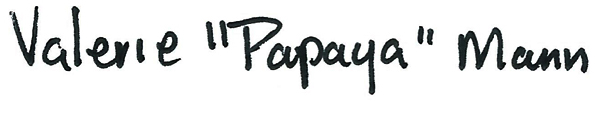
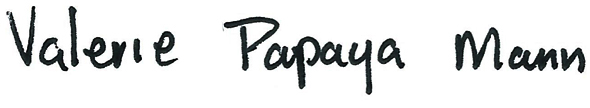
papaya!

Changed region(s): [[0.3356, 0.1389, 0.7322, 0.8889], [0.0, 0.0556, 0.3051, 0.6667], [0.7627, 0.2222, 1.0, 0.6667]]

diff --git a/credits/index.html b/credits/index.html
@@ -42,7 +42,7 @@
 		</br></br>
 		Featuring excerpts from conversations with;
 		</br></br>
-		<a href="http://www.bates.edu/rhetoric/faculty/nero-charles-i/" target="_blank">Charles Nero</a> interviewed in Lewiston, Maine, <a href="http://barbarasmithaintgonna.com/" target="_blank">Barbara Smith</a> in Albany, NY via phone, <a href="http://www.bisexualorganizingproject.org/home/category/abilly-s-joneshennin" target="_blank">ABilly S. Jones-Hennin</a> in Washington, D.C., <a href="http://papayamann.com/" target="_blank">Valerie &ldquo;Papaya&rdquo; Mann</a> in Washington, D.C., <a href="http://www.uhupil.org/#!chw---aimm/cmfw" target="_blank">Ron Simmons</a> in Washington, DC via phone, <a href="http://waysonjones.com/home.html" target="_blank">Wayson Jones</a> in Prince George's County, MD, <a href="https://en.wikipedia.org/wiki/Michelle_Parkerson" target="_blank">Michelle Parkerson</a> in Washington, D.C., <a href="http://prospect.org/article/how-campus-radical-became-first-woman-run-white-house-photography-operation" target="_blank">Sharon Farmer</a> in Washington, D.C., <a href="http://joycewellman.com/" target="_blank">Joyce Wellman</a> in Washington, D.C., <a href="http://www.gracecavalieri.com/" target="_blank">Grace Cavalieri</a> in Annapolis, MD, E. <a href="http://www.eethelbertmiller.com/" target="_blank">Ethelbert Miller</a> in Washington, D.C., <a href="https://books.google.com/books?id=_rvcAwAAQBAJ&pg=PA210&lpg=PA210&dq=Christopher+Prince+essex+hemphill&source=bl&ots=bSrtJQpBgO&sig=v1Caa6v5W_B5braNrNMBDmx6l44&hl=en&sa=X&ved=0ahUKEwjJ8ZSvh63JAhWMdz4KHRbpChAQ6AEIKzAD#v=onepage&q=Christopher%20Prince%20essex%20hemphill&f=false" target="_blank">Christopher Prince</a> in Washington, D.C, <a href="http://notherapedocumentary.org/aishah-shahidah-simmons-bio" target="_blank">Aishah Shahidah Simmons</a> in Philadelphia, PA, <a href="https://imfromdriftwood.com/black-community-spotlight-tyrone-smith/" target="_blank">Tyrone Smith</a> in Philadelphia, PA, <a href="https://en.wikipedia.org/wiki/Joseph_F._Beam" target="_blank">Dorothy Beam</a> (recorded at Essex Hemphill Dec. 95&apos; Memorial Service in Philadelphia, PA, audio recording courtesy Aishah Shahidah Simmons), <a href="http://soniasanchez.net/" target="_blank">Sonia Sanchez</a> (recorded at Essex Hemphill Dec. 95&apos; Memorial Service in Philadelphia, PA audio recording courtesy Aishah Shahidah Simmons).
+		<a href="http://www.bates.edu/rhetoric/faculty/nero-charles-i/" target="_blank">Charles Nero</a> interviewed in Lewiston, Maine, <a href="http://barbarasmithaintgonna.com/" target="_blank">Barbara Smith</a> in Albany, NY via phone, <a href="http://www.bisexualorganizingproject.org/home/category/abilly-s-joneshennin" target="_blank">ABilly S. Jones-Hennin</a> in Washington, D.C., <a href="http://papayamann.com/" target="_blank">Valerie Papaya Mann</a> in Washington, D.C., <a href="http://www.uhupil.org/#!chw---aimm/cmfw" target="_blank">Ron Simmons</a> in Washington, DC via phone, <a href="http://waysonjones.com/home.html" target="_blank">Wayson Jones</a> in Prince George's County, MD, <a href="https://en.wikipedia.org/wiki/Michelle_Parkerson" target="_blank">Michelle Parkerson</a> in Washington, D.C., <a href="http://prospect.org/article/how-campus-radical-became-first-woman-run-white-house-photography-operation" target="_blank">Sharon Farmer</a> in Washington, D.C., <a href="http://joycewellman.com/" target="_blank">Joyce Wellman</a> in Washington, D.C., <a href="http://www.gracecavalieri.com/" target="_blank">Grace Cavalieri</a> in Annapolis, MD, E. <a href="http://www.eethelbertmiller.com/" target="_blank">Ethelbert Miller</a> in Washington, D.C., <a href="https://books.google.com/books?id=_rvcAwAAQBAJ&pg=PA210&lpg=PA210&dq=Christopher+Prince+essex+hemphill&source=bl&ots=bSrtJQpBgO&sig=v1Caa6v5W_B5braNrNMBDmx6l44&hl=en&sa=X&ved=0ahUKEwjJ8ZSvh63JAhWMdz4KHRbpChAQ6AEIKzAD#v=onepage&q=Christopher%20Prince%20essex%20hemphill&f=false" target="_blank">Christopher Prince</a> in Washington, D.C, <a href="http://notherapedocumentary.org/aishah-shahidah-simmons-bio" target="_blank">Aishah Shahidah Simmons</a> in Philadelphia, PA, <a href="https://imfromdriftwood.com/black-community-spotlight-tyrone-smith/" target="_blank">Tyrone Smith</a> in Philadelphia, PA, <a href="https://en.wikipedia.org/wiki/Joseph_F._Beam" target="_blank">Dorothy Beam</a> (recorded at Essex Hemphill Dec. 95&apos; Memorial Service in Philadelphia, PA, audio recording courtesy Aishah Shahidah Simmons), <a href="http://soniasanchez.net/" target="_blank">Sonia Sanchez</a> (recorded at Essex Hemphill Dec. 95&apos; Memorial Service in Philadelphia, PA audio recording courtesy Aishah Shahidah Simmons).
 		</br></br>
 		Additional Audio;
 		</br></br>

diff --git a/assets/scripts.js b/assets/scripts.js
@@ -102,7 +102,9 @@ var active;
 			if($(this).innerWidth() <= 780) {
 				$('.essex').insertAfter($('.names'));
 			} else {
-				$('.essex').insertBefore($('.names'));
+				if(!/Android|webOS|iPhone|iPad|iPod|BlackBerry|IEMobile|Opera Mini/i.test(navigator.userAgent)) {
+					$('.essex').insertBefore($('.names'));
+				}
 				$('.wrapper').scrollTop(0);
 			}
 		}).resize();
